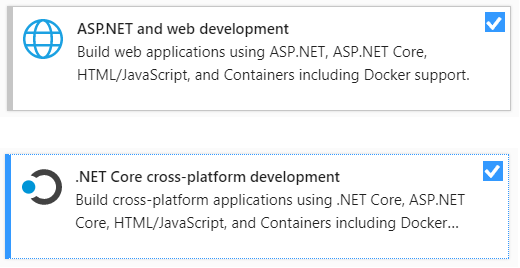
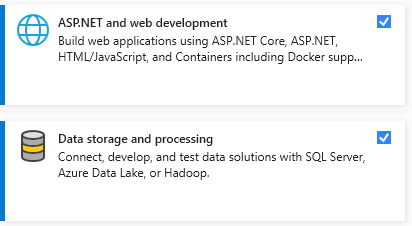
.NET 8 update

Changed region(s): [[0.0, 0.5265, 0.9903, 0.9912], [0.0, 0.0, 0.9903, 0.4646]]

diff --git a/docs/hu/VisualStudio.md b/docs/hu/VisualStudio.md
@@ -1,6 +1,6 @@
-# Visual Studio & .NET Core SDK telepítése
+# Visual Studio & .NET SDK telepítése
 
-Egyes laborokhoz a Microsoft Visual Studio **2019 16.6 vagy újabb** verziója szükséges. Egy labor kivételével a 2022-es verzió is használható. Az ingyenes, [Community változata](https://visualstudio.microsoft.com/vs/community/) is elegendő a feladatok megoldásához.
+Egyes laborokhoz a Microsoft Visual Studio **2022 17.8 vagy újabb** verziója szükséges. Az ingyenes, [Community változata](https://visualstudio.microsoft.com/vs/community/) is elegendő a feladatok megoldásához.
 
 A verziót a _Visual Studio Installer_ elindításával ellenőrizhetjük:
 
@@ -11,25 +11,24 @@ A verziót a _Visual Studio Installer_ elindításával ellenőrizhetjük:
 
 ## Visual Studio Workload-ok telepítése
 
-A Visual Studio telepítésekor ki kell pipálni az alábbi [workload-okat](https://docs.microsoft.com/en-us/visualstudio/install/install-visual-studio?view=vs-2019#step-4---choose-workloads):
+A Visual Studio telepítésekor ki kell pipálni az alábbi [workload-okat](https://learn.microsoft.com/en-us/visualstudio/install/install-visual-studio?view=vs-2022#step-4---choose-workloads):
 
 - ASP.NET and web development
-- .NET Core cross-platform development
+- Data Storage and Processing
 
 ![Visual Studio workloadok](images/visual-studio/vs-workload.png)
 
-Meglevő telepítés a _Visual Studio Installer_-ben a [_Modify_](https://docs.microsoft.com/en-us/visualstudio/install/modify-visual-studio?view=vs-2019) gombbal módosítható, ill. ellenőrizhető.
+Meglevő telepítés a _Visual Studio Installer_-ben a [_Modify_](https://docs.microsoft.com/en-us/visualstudio/install/modify-visual-studio?view=vs-2022) gombbal módosítható, ill. ellenőrizhető.
 
 ![Visual Studio komponensek telepítése](images/visual-studio/vs-installer-modify.png)
 
-## .NET Core SDK ellenőrzése és telepítése
+## .NET SDK ellenőrzése és telepítése
 
-Visual Studio mellett bizonyos .NET Core SDK-k telepítésre kerülnek. A megfelelő verzió ellenőrzéséhez legegyszerűbb a `dotnet` CLI-t használni: konzolban add ki a `dotnet --list-sdks` parancsot. Ez a parancs Linux és Mac esetén is működik. A kimenete hasonló lesz:
+Visual Studio mellett bizonyos .NET SDK-k telepítésre kerülnek. A megfelelő verzió ellenőrzéséhez legegyszerűbb a `dotnet` CLI-t használni: konzolban add ki a `dotnet --list-sdks` parancsot. Ez a parancs Linux és Mac esetén is működik. A kimenete hasonló lesz:
 
 ```hl_lines="2"
-C:\>dotnet --list-sdks
-3.1.404 [C:\Program Files\dotnet\sdk]
-5.0.101 [C:\Program Files\dotnet\sdk]
+PS C:\Users\toth.tibor> dotnet --list-sdks
+8.0.100 [C:\Program Files\dotnet\sdk]
 ```
 
-Ha ebben a listában látsz **3.1**-es verziót, akkor jó. Ha nem, akkor telepíteni kell az SDK-t [innen](https://dotnet.microsoft.com/download/dotnet-core/3.1).
+Ha ebben a listában látsz **8.0.x**-es verziót, akkor jó. Ha nem, akkor telepíteni kell az SDK-t [innen](https://dotnet.microsoft.com/en-us/download/dotnet/8.0).

diff --git a/docs/en/VisualStudio.md b/docs/en/VisualStudio.md
@@ -1,6 +1,6 @@
-# Install Visual Studio & .NET Core SDK
+# Install Visual Studio & .NET SDK
 
-In some of the exercises require Microsoft Visual Studio **version 2019 16.6 or newer**. With the exception of one topic, VS version 2022 is fine too. The free [Community edition](https://visualstudio.microsoft.com/vs/community/) is sufficient for solving these exercises.
+In some of the exercises require Microsoft Visual Studio **version 2022 17.8 or newer**. The free [Community edition](https://visualstudio.microsoft.com/vs/community/) is sufficient for solving these exercises.
 
 You can check the version by starting the _Visual Studio Installer_:
 
@@ -11,25 +11,24 @@ You can check the version by starting the _Visual Studio Installer_:
 
 ## Visual Studio workloads
 
-When installing Visual Studio, the following [workloads](https://docs.microsoft.com/en-us/visualstudio/install/install-visual-studio?view=vs-2019#step-4---choose-workloads) have to be selected:
+When installing Visual Studio, the following [workloads](https://docs.microsoft.com/en-us/visualstudio/install/install-visual-studio?view=vs-2022#step-4---choose-workloads) have to be selected:
 
 - ASP.NET and web development
-- .NET Core cross-platform development
+- Data Storage and Processing
 
 ![Visual Studio workloads](images/visual-studio/vs-workload.png)
 
-An existing installation can be [_modified_](https://docs.microsoft.com/en-us/visualstudio/install/modify-visual-studio?view=vs-2019) using the _Visual Studio Installer_.
+An existing installation can be [_modified_](https://docs.microsoft.com/en-us/visualstudio/install/modify-visual-studio?view=vs-2022) using the _Visual Studio Installer_.
 
 ![Visual Studio install components](images/visual-studio/vs-installer-modify.png)
 
-## Check and install .NET Core SDK
+## Check and install .NET SDK
 
-Visual Studio might install certain versions of the .NET Core SDK. To check if you have the right version, use the `dotnet` CLI: in a console, execute the `dotnet --list-sdks` command. This command works on Linux and Mac too. It will print something similar:
+Visual Studio might install certain versions of the .NET SDK. To check if you have the right version, use the `dotnet` CLI: in a console, execute the `dotnet --list-sdks` command. This command works on Linux and Mac too. It will print something similar:
 
 ```hl_lines="2"
-C:\>dotnet --list-sdks
-3.1.404 [C:\Program Files\dotnet\sdk]
-5.0.101 [C:\Program Files\dotnet\sdk]
+PS C:\Users\toth.tibor> dotnet --list-sdks
+8.0.100 [C:\Program Files\dotnet\sdk]
 ```
 
-If you see version **3.1** in this list, then you are good to go. Otherwise, install the SDK [from here](https://dotnet.microsoft.com/download/dotnet-core/3.1).
+If you see version **8.0.x** in this list, then you are good to go. Otherwise, install the SDK [from here](https://dotnet.microsoft.com/download/dotnet-core/8.0).

diff --git a/docs/en/Lab-EFREST/index.md b/docs/en/Lab-EFREST/index.md
@@ -11,20 +11,18 @@ Required tools to complete the tasks:
 - [DB Browser for SQLite](https://sqlitebrowser.org/) - if you would like to check the database (not necessary)
 - GitHub account and a git client
 - Microsoft Visual Studio 2022 [with the settings here](../VisualStudio.md)
-    - When using Linux or macOS, you can use Visual Studio Code, the .NET Core SDK, and [dotnet CLI](https://learn.microsoft.com/en-us/dotnet/core/tools/).
-- [.NET **6** SDK](https://dotnet.microsoft.com/en-us/download/dotnet/6.0)
+    - When using Linux or macOS, you can use Visual Studio Code, the .NET SDK, and [dotnet CLI](https://learn.microsoft.com/en-us/dotnet/core/tools/).
+- [.NET **8** SDK](https://dotnet.microsoft.com/en-us/download/dotnet/8.0)
 
-    !!! warning ".NET Core 6.0"
-        Mind the version! You need .NET SDK version **6.0** to solve these exercises.
+    !!! warning ".NET 8.0"
+        Mind the version! You need .NET SDK version **8.0** to solve these exercises.
 
         On Windows, it might already be installed along with Visual Studio (see [here](../VisualStudio.md#check-and-install-net-core-sdk) how to check it); if not, use the link above to install (the SDK and _not_ the runtime). You need to install it manually when using Linux or macOS.
-
-Entity Framework Core, on the other hand, is included in the starting project with version **7.0**, since it is not part of the SDK, but a NuGet package, and is fully compatible with the .NET 6.0 LTS version.
 
 Materials for preparing for this laboratory:
 
 - Entity Framework, REST API, Web API, and using Postman
-    - Check the materials of _Data-driven systems_ including the [seminars](https://learn.microsoft.com/en-us/aspnet/core/tutorials/first-web-api?view=aspnetcore-6.0&tabs=visual-studio)
+    - Check the materials of _Data-driven systems_ including the [seminars](https://bmeviauac01.github.io/datadriven/en/)
 
 ## Exercise overview
 
@@ -64,7 +62,7 @@ In this exercise, we will implement the basic management of status entities.
 Open the Visual Studio solution (the `.sln`) file in the checked-out repository. If Visual Studio tells you that the project is not supported, you need to install a missing component (see [here](../VisualStudio.md)).
 
 !!! warning "Do NOT upgrade any version"
-    Do not upgrade the project, the .NET Core version, or any Nuget package! If you see such a question, always choose no!
+    Do not upgrade the project, the .NET version, or any Nuget package! If you see such a question, always choose no!
 
 The solution is structured according to a multi-tier architecture:
 

diff --git a/docs/hu/Lab-EFREST/index.md b/docs/hu/Lab-EFREST/index.md
@@ -11,21 +11,19 @@ A labor elvégzéséhez szükséges eszközök:
 - [DB Browser for SQLite](https://sqlitebrowser.org/), ha az adatbázisba szeretnél belezézni (nem feltétlenül szükséges)
 - GitHub account és egy git kliens
 - Microsoft Visual Studio 2022 [az itt található beállításokkal](../VisualStudio.md)
-    - Linux és MacOS esetén Visual Studio Code és a .NET Core SDK-val települő [dotnet CLI](https://learn.microsoft.com/en-us/dotnet/core/tools/) használható.
-- [.NET **6** SDK](https://dotnet.microsoft.com/en-us/download/dotnet/6.0)
+    - Linux és MacOS esetén Visual Studio Code és a .NET SDK-val települő [dotnet CLI](https://learn.microsoft.com/en-us/dotnet/core/tools/) használható.
+- [.NET **8** SDK](https://dotnet.microsoft.com/en-us/download/dotnet/8.0)
 
-    !!! warning ".NET 6.0"
-        A feladat megoldásához **6.0**-ás .NET SDK telepítése szükséges.
+    !!! warning ".NET 8.0"
+        A feladat megoldásához **8.0**-ás .NET SDK telepítése szükséges.
 
-        Windows-on Visual Studio verzió függvényében lehet, hogy telepítve van (lásd [itt](../VisualStudio.md#net-core-sdk-ellenorzese-es-telepitese) az ellenőrzés módját); ha nem, akkor a fenti linkről kell telepíteni (az SDK-t és _nem_ a runtime-ot.) Linux és MacOS esetén telepíteni szükséges.
-
-        Az Entity Framework Core viszont **7.0**-ás verzióval szerepel a kiinduló projektben, mivel az nem az SDK része, hanem NuGet csomag, illetve teljes mértékben kompatibilis a .NET 6.0 LTS verzióval.
+        Windows-on Visual Studio verzió függvényében lehet, hogy telepítve van (lásd [itt](../VisualStudio.md#net-sdk-ellenorzese-es-telepitese) az ellenőrzés módját); ha nem, akkor a fenti linkről kell telepíteni (az SDK-t és _nem_ a runtime-ot.) Linux és MacOS esetén telepíteni szükséges.
 
 A labor elvégzéséhez használható segédanyagok és felkészülési anyagok:
 
 - Entity Framework Core, REST API, Web API elméleti háttere és mintapéldái, valamint a Postman használata
     - Lásd az Adatvezérelt rendszerek c. tárgy jegyzetei és [gyakorlati anyagai](https://bmeviauac01.github.io/datadriven/hu/) között
-- Hivatalos Microsoft tutorial [Web API készítéséhez](https://learn.microsoft.com/en-us/aspnet/core/tutorials/first-web-api?view=aspnetcore-6.0&tabs=visual-studio)
+- Hivatalos Microsoft tutorial [Web API készítéséhez](https://learn.microsoft.com/en-us/aspnet/core/tutorials/first-web-api?view=aspnetcore-8.0&tabs=visual-studio)
 
 ## Feladat áttekintése
 

diff --git a/docs/hu/Lab-MongoDB/index.md b/docs/hu/Lab-MongoDB/index.md
@@ -14,23 +14,24 @@ A labor elvégzéséhez szükséges eszközök:
         docker run --name swlab1-mongo -p 27017:27017 -d mongo
         ```
 
-- Studio 3T Free ([letöltés](https://studio3t.com/download-studio3t-free))
+- VSCode
+    - MongoDB for VSCode kiegészítő
 - Minta adatbázis kódja ([mongo.js](../db/mongo.js))
 - GitHub account és egy git kliens
 - Microsoft Visual Studio 2022 [az itt található beállításokkal](../VisualStudio.md)
     - Linux és MacOS esetén Visual Studio Code és a .NET SDK-val települő [dotnet CLI](https://docs.microsoft.com/en-us/dotnet/core/tools/) használható.
-- [.NET **6.0** SDK](https://dotnet.microsoft.com/en-us/download/dotnet/6.0)
+- [.NET **8.0** SDK](https://dotnet.microsoft.com/en-us/download/dotnet/8.0)
 
-    !!! warning ".NET Core 6.0"
-        A feladat megoldásához **6.0**-es .NET Core SDK telepítése szükséges.
+    !!! warning ".NET 8.0"
+        A feladat megoldásához **8.0**-es .NET SDK telepítése szükséges.
 
-        Windows-on Visual Studio verzió függvényében lehet, hogy telepítve van (lásd [itt](../VisualStudio.md#net-core-sdk-ellenorzese-es-telepitese) az ellenőrzés módját); ha nem, akkor a fenti linkről kell telepíteni (az SDK-t és _nem_ a runtime-ot.) Linux és MacOS esetén telepíteni szükséges.
+        Windows-on Visual Studio verzió függvényében lehet, hogy telepítve van (lásd [itt](../VisualStudio.md#net-sdk-ellenorzese-es-telepitese) az ellenőrzés módját); ha nem, akkor a fenti linkről kell telepíteni (az SDK-t és _nem_ a runtime-ot.) Linux és MacOS esetén telepíteni szükséges.
 
 A labor elvégzéséhez használható segédanyagok és felkészülési anyagok:
 
 - MongoDB adatbáziskezelő rendszer és a C# driver használata
     - Lásd az Adatvezérelt rendszerek c. tárgy jegyzetei és [gyakorlati anyagai](https://bmeviauac01.github.io/datadriven/hu/) között
-- Hivatalos Microsoft tutorial [Mongo-t használó Web API készítéséhez](https://learn.microsoft.com/en-us/aspnet/core/tutorials/first-mongo-app?view=aspnetcore-6.0&tabs=visual-studio)
+- Hivatalos Microsoft tutorial [Mongo-t használó Web API készítéséhez](https://learn.microsoft.com/en-us/aspnet/core/tutorials/first-mongo-app?view=aspnetcore-8.0&tabs=visual-studio)
     - A labor során nem WebAPI-t készítünk, de a Mongo használat azonos formában történik.
 
 ## Előkészület

diff --git a/docs/en/Lab-MongoDB/index.md b/docs/en/Lab-MongoDB/index.md
@@ -8,21 +8,22 @@ Required tools to complete the tasks:
 
 - Windows, Linux, or macOS: All tools are platform-independent, or a platform-independent alternative is available.
 - MongoDB Community Server ([download](https://www.mongodb.com/download-center/community))
-- Robo 3T ([download](https://robomongo.org/download))
     - Without installing you can run the server with the following command using Docker:
-    
-          ```cmd
+
+        ```cmd
         docker run --name swlab1-mongo -p 27017:27017 -d mongo
         ```
-        
+
+- VSCode
+    - MongoDB for VSCode kiegészítő
 - Sample database initialization script: ([mongo.js](../db/mongo.js))
 - GitHub account and a git client
 - Microsoft Visual Studio 2022 [with the settings here](../VisualStudio.md)
     - When using Linux or macOS, you can use Visual Studio Code, the .NET SDK, and [dotnet CLI](https://docs.microsoft.com/en-us/dotnet/core/tools/).
-- [.NET Core **6.0** SDK](https://dotnet.microsoft.com/en-us/download/dotnet/6.0)
+- [.NET **8.0** SDK](https://dotnet.microsoft.com/en-us/download/dotnet/8.0)
 
-    !!! warning ".NET 6.0"
-        Mind the version! You need .NET SDK version **6.0** to solve these exercises.
+    !!! warning ".NET 8.0"
+        Mind the version! You need .NET SDK version **8.0** to solve these exercises.
 
         On Windows it might already be installed along with Visual Studio (see [here](../VisualStudio.md#check-and-install-net-core-sdk) how to check it); if not, use the link above to install (the SDK and _not_ the runtime). You need to install it manually when using Linux or macOS.
 
